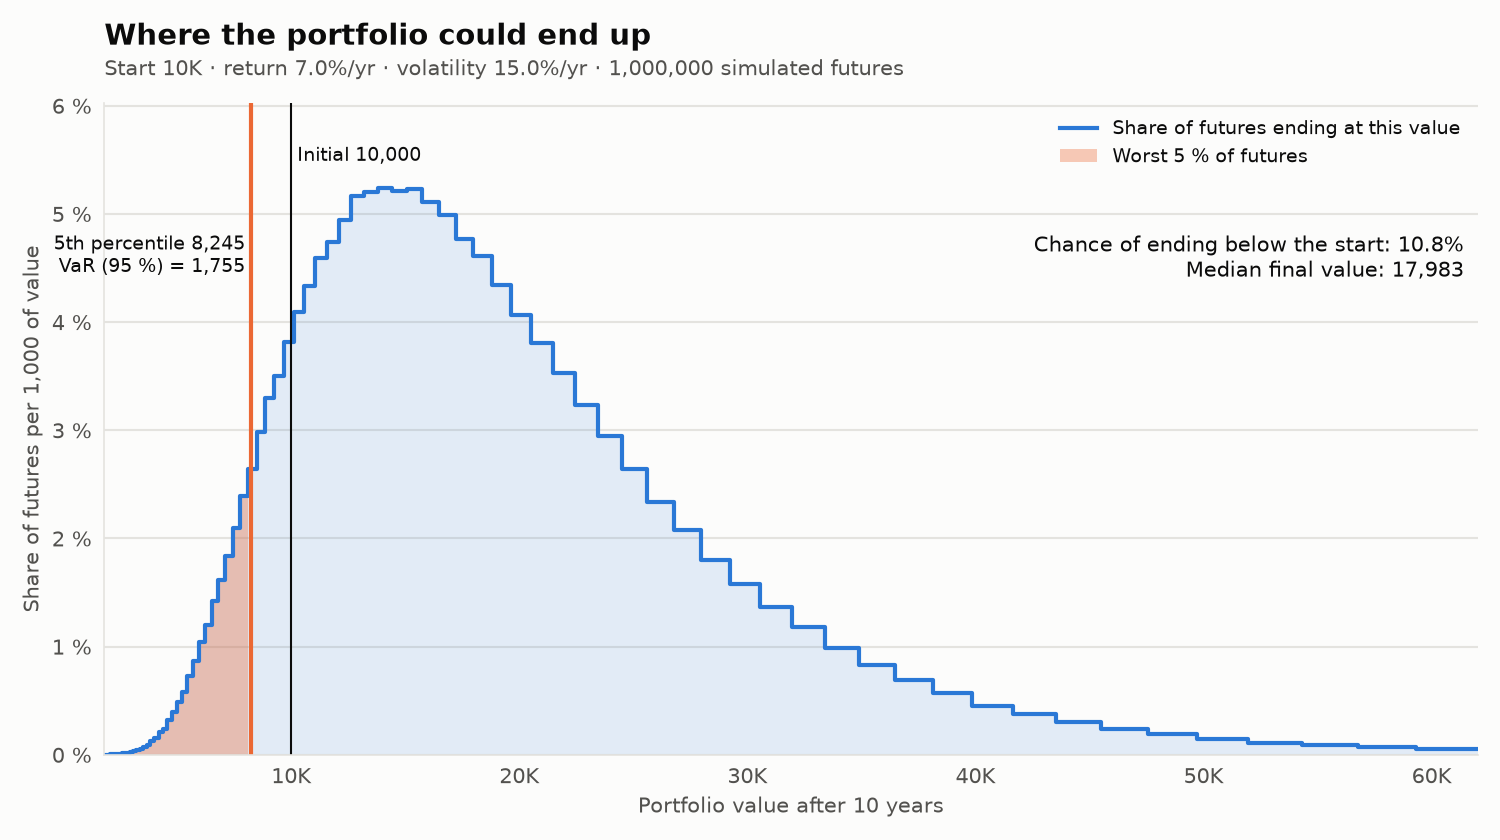
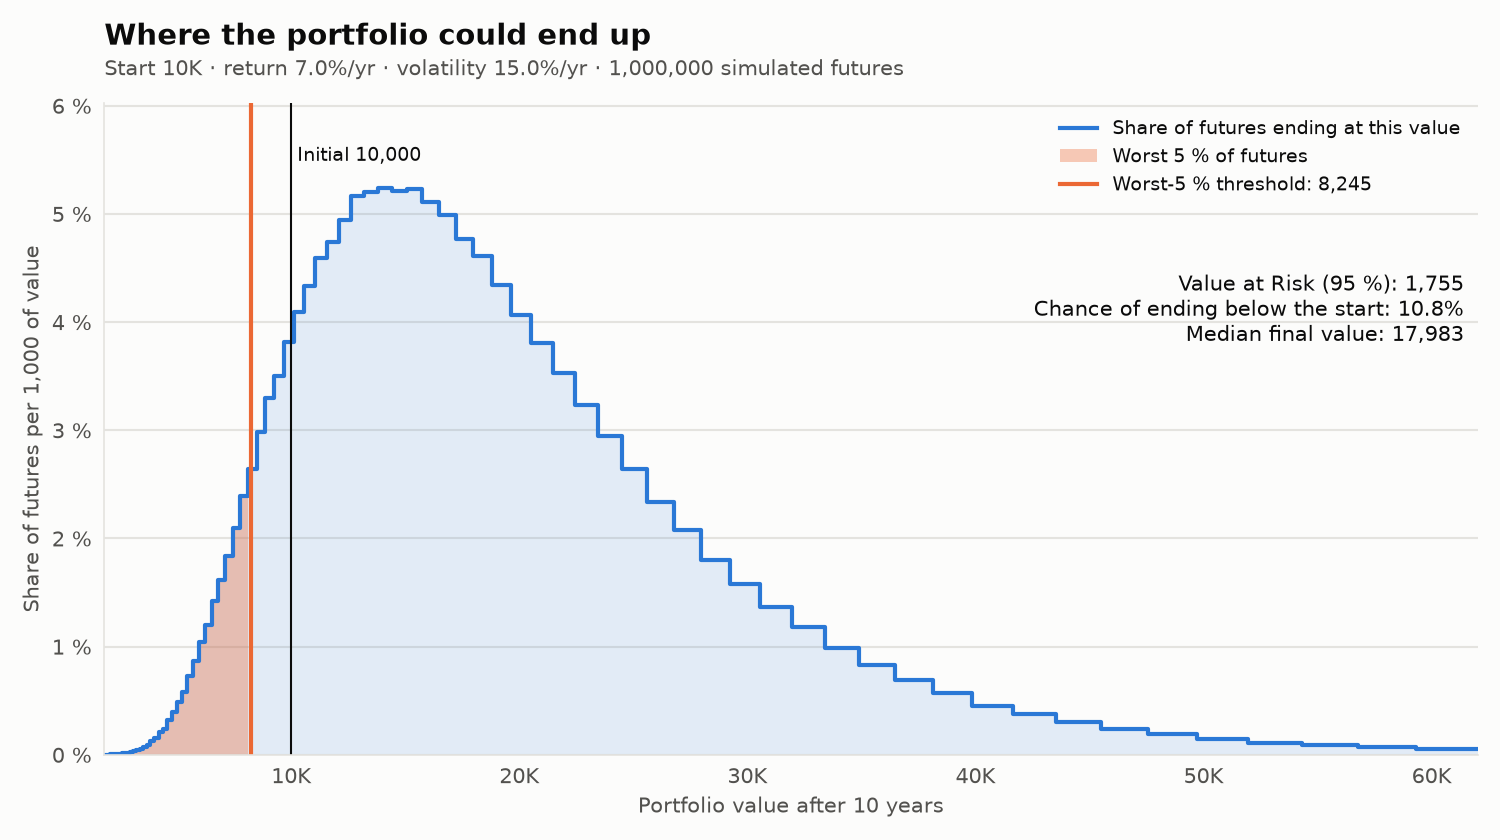
Add fan chart, distribution chart, demo script and Streamlit dashboard

Changed region(s): [[0.6747, 0.2786, 0.9813, 0.4024], [0.0307, 0.2786, 0.184, 0.3405], [0.7053, 0.2167, 0.92, 0.2476]]

diff --git a/scripts/plot_distribution.py b/scripts/plot_distribution.py
@@ -34,12 +34,29 @@ def coarsen(hist: pd.DataFrame, group: int) -> pd.DataFrame:
                                   count=("count", "sum")).reset_index(drop=True)
 
 
-def make_distribution_chart(hist: pd.DataFrame, summary: dict) -> Figure:
-    """Builds the distribution figure: probability density, worst-5 % tail, V0 and VaR lines."""
+def histogram_quantile(hist: pd.DataFrame, q: float) -> float:
+    """Value below which a fraction q of the futures end, read from the histogram
+    (interpolating inside the bin in log space, like the C++ engine does)."""
+    counts = hist["count"].to_numpy(dtype=float)
+    cumulative = np.cumsum(counts)
+    target = q * cumulative[-1]
+    b = int(np.searchsorted(cumulative, target))
+    before = cumulative[b - 1] if b > 0 else 0.0
+    fraction = (target - before) / counts[b] if counts[b] > 0 else 0.0
+    lo, hi = np.log(hist["bin_lower"].iloc[b]), np.log(hist["bin_upper"].iloc[b])
+    return float(np.exp(lo + fraction * (hi - lo)))
+
+
+def make_distribution_chart(hist: pd.DataFrame, summary: dict,
+                            theme: cs.Theme = cs.LIGHT) -> Figure:
+    """Builds the distribution figure: probability density, worst tail, V0 and VaR lines."""
     params = summary["params"]
     risk = summary["risk"]
     initial = params["initial"]
-    threshold = initial - risk["var"] if risk["var"] > 0 else summary["final_value"]["p05"]
+    confidence = risk["confidence"]
+    tail_share = cs.percent(1 - confidence)        # e.g. "5 %" at 95 % confidence
+    # The VaR threshold is the (1 - confidence) quantile of the final value.
+    threshold = histogram_quantile(hist, 1 - confidence)
 
     bins = coarsen(hist, MERGE_BINS)
     total = bins["count"].sum()
@@ -56,31 +73,32 @@ def make_distribution_chart(hist: pd.DataFrame, summary: dict) -> Figure:
 
     fig = Figure(figsize=cs.FIGSIZE, dpi=cs.DPI)
     ax = fig.add_subplot()
-    cs.style_axes(ax)
+    cs.style_axes(ax, theme)
     ax.yaxis.set_major_formatter(lambda v, _pos: f"{v:g} %")
 
     # Whole distribution as a soft area with a 2px outline.
-    ax.fill_between(edges, heights * 100, step="post", color=cs.BLUE, alpha=0.12, linewidth=0)
-    ax.step(edges, heights * 100, where="post", color=cs.BLUE, linewidth=2,
+    ax.fill_between(edges, heights * 100, step="post", color=theme.blue, alpha=0.12, linewidth=0)
+    ax.step(edges, heights * 100, where="post", color=theme.blue, linewidth=2,
             label="Share of futures ending at this value")
     # Worst 5 % of futures, below the VaR threshold, highlighted in orange.
     tail = edges <= threshold
-    ax.fill_between(edges, heights * 100, where=tail, step="post", color=cs.ORANGE,
-                    alpha=0.35, linewidth=0, label="Worst 5 % of futures")
+    ax.fill_between(edges, heights * 100, where=tail, step="post", color=theme.orange,
+                    alpha=0.35, linewidth=0, label=f"Worst {tail_share} of futures")
 
     top = (heights * 100).max()
-    ax.axvline(initial, color=cs.TEXT_PRIMARY, linewidth=1)
-    ax.text(initial, top * 1.04, f" Initial {initial:,.0f}", color=cs.TEXT_PRIMARY,
+    ax.axvline(initial, color=theme.text_primary, linewidth=1)
+    ax.text(initial, top * 1.04, f" Initial {initial:,.0f}", color=theme.text_primary,
             fontsize=9, ha="left", va="bottom")
-    ax.axvline(threshold, color=cs.ORANGE, linewidth=2)
-    ax.text(threshold, top * 0.92,
-            f"5th percentile {cs.money(threshold)} \nVaR (95 %) = {cs.money(risk['var'])} ",
-            color=cs.TEXT_PRIMARY, fontsize=9, ha="right", va="top")
+    # The threshold line is named in the legend (not next to the line), so its label
+    # can never collide with the axis, whatever the confidence level.
+    ax.axvline(threshold, color=theme.orange, linewidth=2,
+               label=f"Worst-{tail_share} threshold: {threshold:,.0f}")
 
-    ax.text(0.99, 0.80,
+    ax.text(0.99, 0.74,
+            f"Value at Risk ({cs.percent(confidence)}): {risk['var']:,.0f}\n"
             f"Chance of ending below the start: {risk['prob_loss']:.1%}\n"
             f"Median final value: {summary['final_value']['median']:,.0f}",
-            transform=ax.transAxes, ha="right", va="top", fontsize=10, color=cs.TEXT_PRIMARY)
+            transform=ax.transAxes, ha="right", va="top", fontsize=10, color=theme.text_primary)
 
     ax.set_xlim(edges[0], edges[-1])
     ax.set_ylim(0, top * 1.15)
@@ -89,10 +107,8 @@ def make_distribution_chart(hist: pd.DataFrame, summary: dict) -> Figure:
                   if params["months"] % 12 == 0 else
                   f"Portfolio value after {params['months']} months")
     ax.set_ylabel("Share of futures per 1,000 of value")
-    cs.add_titles(ax, "Where the portfolio could end up", cs.describe_params(params))
-    legend = ax.legend(loc="upper right", frameon=False, fontsize=9)
-    for text in legend.get_texts():
-        text.set_color(cs.TEXT_PRIMARY)
+    cs.add_titles(ax, "Where the portfolio could end up", cs.describe_params(params), theme)
+    cs.add_legend(ax, "upper right", theme)
     fig.tight_layout()
     return fig
 
@@ -102,12 +118,15 @@ def main() -> None:
     parser.add_argument("--input", type=Path, default=Path("results/run"),
                         help="run directory containing final_hist.csv and summary.json")
     parser.add_argument("--output", type=Path, default=Path("docs/images/distribution.png"))
+    parser.add_argument("--theme", choices=("light", "dark"), default="light",
+                        help="colour theme (light for documents)")
     args = parser.parse_args()
 
     hist = pd.read_csv(args.input / "final_hist.csv")
     summary = json.loads((args.input / "summary.json").read_text())
     args.output.parent.mkdir(parents=True, exist_ok=True)
-    make_distribution_chart(hist, summary).savefig(args.output)
+    theme = cs.DARK if args.theme == "dark" else cs.LIGHT
+    make_distribution_chart(hist, summary, theme).savefig(args.output)
     print(f"wrote {args.output}")
 
 

diff --git a/scripts/plot_fan_chart.py b/scripts/plot_fan_chart.py
@@ -18,7 +18,7 @@ from matplotlib.figure import Figure
 import chart_style as cs
 
 
-def make_fan_chart(fan: pd.DataFrame, summary: dict) -> Figure:
+def make_fan_chart(fan: pd.DataFrame, summary: dict, theme: cs.Theme = cs.LIGHT) -> Figure:
     """Builds the fan chart figure: P5-P95 band, P25-P75 band, median and mean lines."""
     params = summary["params"]
     years = fan["month"] / 12.0
@@ -26,30 +26,30 @@ def make_fan_chart(fan: pd.DataFrame, summary: dict) -> Figure:
     # Figure() instead of pyplot: no global state, safe inside the Streamlit dashboard.
     fig = Figure(figsize=cs.FIGSIZE, dpi=cs.DPI)
     ax = fig.add_subplot()
-    cs.style_axes(ax)
+    cs.style_axes(ax, theme)
 
-    ax.fill_between(years, fan["p05"], fan["p95"], color=cs.BLUE_LIGHT, alpha=0.55,
+    ax.fill_between(years, fan["p05"], fan["p95"], color=theme.band_outer, alpha=0.55,
                     linewidth=0, label="90 % of futures (P5 – P95)")
-    ax.fill_between(years, fan["p25"], fan["p75"], color=cs.BLUE_MID, alpha=0.55,
+    ax.fill_between(years, fan["p25"], fan["p75"], color=theme.band_inner, alpha=0.55,
                     linewidth=0, label="50 % of futures (P25 – P75)")
-    ax.plot(years, fan["median"], color=cs.BLUE, linewidth=2, solid_capstyle="round",
+    ax.plot(years, fan["median"], color=theme.blue, linewidth=2, solid_capstyle="round",
             label="Median (typical outcome)")
-    ax.plot(years, fan["mean"], color=cs.ORANGE, linewidth=2, solid_capstyle="round",
+    ax.plot(years, fan["mean"], color=theme.orange, linewidth=2, solid_capstyle="round",
             label="Mean (average outcome)")
-    ax.axhline(params["initial"], color=cs.TEXT_SECONDARY, linewidth=1)
+    ax.axhline(params["initial"], color=theme.text_secondary, linewidth=1)
     # Label the starting-amount line at the right end, where it is clear of the median/mean.
     ax.text(0.985 * years.iloc[-1], params["initial"], f"Initial {params['initial']:,.0f}",
-            color=cs.TEXT_SECONDARY, fontsize=9, ha="right", va="bottom")
+            color=theme.text_secondary, fontsize=9, ha="right", va="bottom")
 
     # A few labelled sample points on the median: halfway and at the end. Labels go
     # BELOW the median because the mean line runs just above it.
     last = len(fan) - 1
     for i in sorted({last // 2, last}):
         x, y = years.iloc[i], fan["median"].iloc[i]
-        ax.plot(x, y, "o", markersize=8, color=cs.BLUE, markeredgecolor=cs.SURFACE,
+        ax.plot(x, y, "o", markersize=8, color=theme.blue, markeredgecolor=theme.surface,
                 markeredgewidth=2, zorder=5)
         ax.annotate(f"{y:,.0f}", (x, y), xytext=(-6, -8), textcoords="offset points",
-                    ha="right", va="top", fontsize=10, color=cs.TEXT_PRIMARY,
+                    ha="right", va="top", fontsize=10, color=theme.text_primary,
                     fontweight="bold")
 
     # Direct labels for the band edges at the right end.
@@ -57,16 +57,15 @@ def make_fan_chart(fan: pd.DataFrame, summary: dict) -> Figure:
         y = fan[column].iloc[-1]
         ax.annotate(f"{name} {cs.money(y)}", (years.iloc[-1], y), xytext=(6, 0),
                     textcoords="offset points", va="center", fontsize=9,
-                    color=cs.TEXT_SECONDARY)
+                    color=theme.text_secondary)
 
     ax.set_xlim(0, years.iloc[-1])
     ax.set_ylim(bottom=0)
     ax.set_xlabel("Years from today")
     ax.set_ylabel("Portfolio value")
-    cs.add_titles(ax, "Range of possible portfolio values over time", cs.describe_params(params))
-    legend = ax.legend(loc="upper left", frameon=False, fontsize=9)
-    for text in legend.get_texts():
-        text.set_color(cs.TEXT_PRIMARY)
+    cs.add_titles(ax, "Range of possible portfolio values over time", cs.describe_params(params),
+                  theme)
+    cs.add_legend(ax, "upper left", theme)
     fig.tight_layout()
     return fig
 
@@ -76,12 +75,15 @@ def main() -> None:
     parser.add_argument("--input", type=Path, default=Path("results/run"),
                         help="run directory containing fan_chart.csv and summary.json")
     parser.add_argument("--output", type=Path, default=Path("docs/images/fan_chart.png"))
+    parser.add_argument("--theme", choices=("light", "dark"), default="light",
+                        help="colour theme (light for documents)")
     args = parser.parse_args()
 
     fan = pd.read_csv(args.input / "fan_chart.csv")
     summary = json.loads((args.input / "summary.json").read_text())
     args.output.parent.mkdir(parents=True, exist_ok=True)
-    make_fan_chart(fan, summary).savefig(args.output)
+    theme = cs.DARK if args.theme == "dark" else cs.LIGHT
+    make_fan_chart(fan, summary, theme).savefig(args.output)
     print(f"wrote {args.output}")
 
 

diff --git a/scripts/chart_style.py b/scripts/chart_style.py
@@ -3,21 +3,54 @@
 Colours come from a colour-blind-safe reference palette: blue is the main data
 series, orange marks the risk threshold, and text stays in neutral greys
 (never in a data colour) so it is always readable.
+
+There are two themes. LIGHT is used for the PNG files in docs/images. DARK is
+used by the dashboard when the browser/Streamlit is in dark mode: it is not just
+"inverted" — each colour is a step of the same hue chosen to read well on a dark
+background.
 """
 
 from __future__ import annotations
 
+from dataclasses import dataclass
+
 from matplotlib.axes import Axes
 from matplotlib.ticker import FuncFormatter
 
-SURFACE = "#fcfcfb"         # chart background
-TEXT_PRIMARY = "#0b0b0b"
-TEXT_SECONDARY = "#52514e"
-GRID = "#e4e3df"            # hairline grid, one step off the surface
-BLUE = "#2a78d6"            # main series (median, distribution)
-BLUE_LIGHT = "#b7d3f6"      # outer band (P5-P95)
-BLUE_MID = "#86b6ef"        # inner band (P25-P75)
-ORANGE = "#eb6834"          # risk: worst 5 % tail, VaR threshold
+
+@dataclass(frozen=True)
+class Theme:
+    surface: str          # chart background
+    text_primary: str     # titles, labels, values
+    text_secondary: str   # axis labels, subtitles, notes
+    grid: str             # hairline grid, one step off the surface
+    blue: str             # main series (median line, distribution outline)
+    band_outer: str       # P5-P95 band
+    band_inner: str       # P25-P75 band
+    orange: str           # risk: worst tail, VaR threshold, mean line
+
+
+LIGHT = Theme(
+    surface="#fcfcfb",
+    text_primary="#0b0b0b",
+    text_secondary="#52514e",
+    grid="#e4e3df",
+    blue="#2a78d6",
+    band_outer="#b7d3f6",
+    band_inner="#86b6ef",
+    orange="#eb6834",
+)
+
+DARK = Theme(
+    surface="#0e1117",    # Streamlit's dark page colour, so the chart blends in
+    text_primary="#f0efec",
+    text_secondary="#c3c2b7",
+    grid="#2c2f36",
+    blue="#86b6ef",       # lighter step of the same blue: stands out on the dark bands
+    band_outer="#184f95",
+    band_inner="#256abf",
+    orange="#d95926",
+)
 
 FIGSIZE = (10, 5.6)
 DPI = 150
@@ -32,28 +65,40 @@ def money(value: float, _pos: object = None) -> str:
     return f"{value:,.0f}"
 
 
-def style_axes(ax: Axes) -> None:
+def percent(fraction: float) -> str:
+    """0.95 -> '95 %', 0.975 -> '97.5 %'."""
+    return f"{100 * fraction:g} %"
+
+
+def style_axes(ax: Axes, theme: Theme) -> None:
     """Recessive axes: light hairline grid, no top/right frame, grey tick labels."""
-    ax.set_facecolor(SURFACE)
-    ax.figure.set_facecolor(SURFACE)
-    ax.grid(True, axis="y", color=GRID, linewidth=1, linestyle="-")
+    ax.set_facecolor(theme.surface)
+    ax.figure.set_facecolor(theme.surface)
+    ax.grid(True, axis="y", color=theme.grid, linewidth=1, linestyle="-")
     ax.set_axisbelow(True)
     for side in ("top", "right"):
         ax.spines[side].set_visible(False)
     for side in ("left", "bottom"):
-        ax.spines[side].set_color(GRID)
-    ax.tick_params(colors=TEXT_SECONDARY, labelsize=10, length=0, pad=6)
-    ax.xaxis.label.set_color(TEXT_SECONDARY)
-    ax.yaxis.label.set_color(TEXT_SECONDARY)
+        ax.spines[side].set_color(theme.grid)
+    ax.tick_params(colors=theme.text_secondary, labelsize=10, length=0, pad=6)
+    ax.xaxis.label.set_color(theme.text_secondary)
+    ax.yaxis.label.set_color(theme.text_secondary)
     ax.yaxis.set_major_formatter(FuncFormatter(money))
 
 
-def add_titles(ax: Axes, title: str, subtitle: str) -> None:
+def add_titles(ax: Axes, title: str, subtitle: str, theme: Theme) -> None:
     """Left-aligned title with a smaller grey subtitle underneath."""
     ax.set_title(title, loc="left", fontsize=14, fontweight="bold",
-                 color=TEXT_PRIMARY, pad=28)
+                 color=theme.text_primary, pad=28)
     ax.text(0, 1.035, subtitle, transform=ax.transAxes, fontsize=10,
-            color=TEXT_SECONDARY, va="bottom")
+            color=theme.text_secondary, va="bottom")
+
+
+def add_legend(ax: Axes, loc: str, theme: Theme) -> None:
+    """Frameless legend with text in the theme's text colour (never a data colour)."""
+    legend = ax.legend(loc=loc, frameon=False, fontsize=9)
+    for text in legend.get_texts():
+        text.set_color(theme.text_primary)
 
 
 def describe_params(params: dict) -> str:

diff --git a/dashboard/app.py b/dashboard/app.py
@@ -23,6 +23,7 @@ import streamlit as st
 
 REPO = Path(__file__).resolve().parents[1]
 sys.path.insert(0, str(REPO / "scripts"))
+import chart_style as cs  # noqa: E402
 from plot_distribution import make_distribution_chart  # noqa: E402
 from plot_fan_chart import make_fan_chart  # noqa: E402
 
@@ -100,6 +101,14 @@ def sidebar() -> tuple[dict, bool]:
     return settings, run
 
 
+def chart_theme() -> cs.Theme:
+    """Dark chart colours when Streamlit shows its dark theme, light otherwise."""
+    try:
+        return cs.DARK if st.context.theme.type == "dark" else cs.LIGHT
+    except AttributeError:  # older Streamlit without st.context.theme
+        return cs.LIGHT
+
+
 def show_results(result: dict) -> None:
     """Headline numbers, both charts, a table view and the timing breakdown."""
     s = result["summary"]
@@ -116,15 +125,17 @@ def show_results(result: dict) -> None:
     c3.metric("Chance of a loss", f"{risk['prob_loss']:.1%}",
               help="Share of simulated futures that end below the initial investment.")
     c4.metric("Compute time", f"{timing['total_s']:.2f} s",
-              f"{s['parallel']['mpi_processes']} proc × {s['parallel']['omp_threads']} thr",
-              delta_color="off")
+              f"{s['parallel']['mpi_processes']} process(es) × "
+              f"{s['parallel']['omp_threads']} thread(s)",
+              delta_color="off", delta_arrow="off")  # a label, not a change: no arrow
 
     tab_fan, tab_dist, tab_table, tab_run = st.tabs(
         ["Fan chart", "Final-value distribution", "Table", "Run details"])
+    theme = chart_theme()
     with tab_fan:
-        st.pyplot(make_fan_chart(result["fan"], s))
+        st.pyplot(make_fan_chart(result["fan"], s, theme))
     with tab_dist:
-        st.pyplot(make_distribution_chart(result["hist"], s))
+        st.pyplot(make_distribution_chart(result["hist"], s, theme))
     with tab_table:
         table = result["fan"].copy()
         table.insert(1, "year", table["month"] / 12)

diff --git a/README.md b/README.md
@@ -202,7 +202,7 @@ Or draw the charts for any run folder yourself:
 | Chart | What it shows |
 |---|---|
 | [Fan chart](docs/images/fan_chart.png) (top of this page) | For every month: the middle 50 % and 90 % of futures as shaded bands, the median (typical) and mean (average) path, and the starting amount |
-| [Distribution](docs/images/distribution.png) (below) | Where the portfolio ends after the horizon. The worst 5 % of futures are shaded orange; the orange line is the 5th percentile, and the gap from it to the starting amount is the 95 % VaR |
+| [Distribution](docs/images/distribution.png) (below) | Where the portfolio ends after the horizon. The worst 5 % of futures are shaded orange; the orange line is the 5th percentile, and the gap from it to the starting amount is the 95 % VaR (labels follow `--confidence`, e.g. worst 1 % at 99 %) |
 
 ![Distribution of final values with VaR](docs/images/distribution.png)
 
@@ -223,6 +223,8 @@ MPI processes and OpenMP threads, then press **Run simulation**. The dashboard r
 `mpirun ... build/mc_hybrid` and shows the median, VaR, chance of loss and compute time,
 the two charts, a table of the fan chart, and the exact command and output. Each run is
 saved under `results/dashboard/<date-time>/`.
+If your browser or Streamlit is in dark mode, the charts are drawn in matching dark
+colours. The plot scripts can do the same with `--theme dark` (default `light`).
 
 `make test` also checks the dashboard: [tests/python/test_dashboard.py](tests/python/test_dashboard.py)
 loads the real app with Streamlit's `AppTest`, presses **Run simulation** for a
